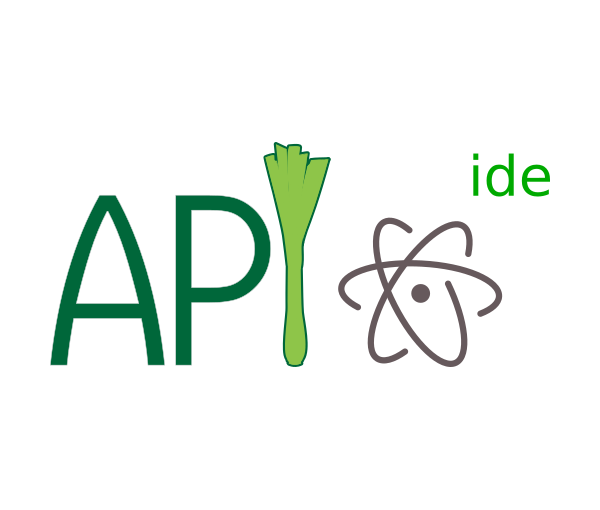
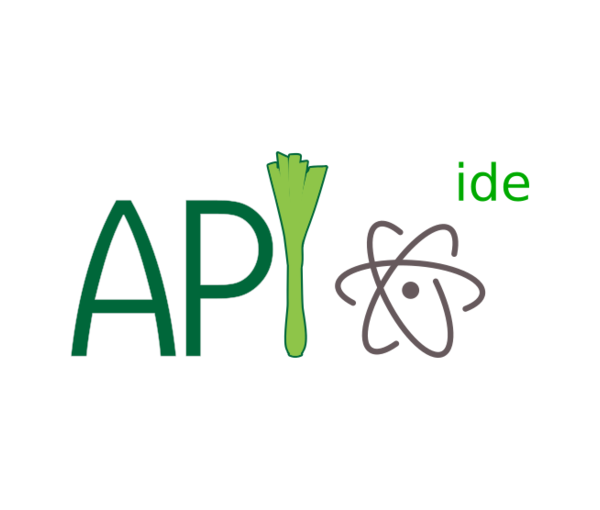
Add ImageMagick command to Readme

Changed region(s): [[0.06, 0.3529, 0.51, 0.7353], [0.54, 0.2941, 0.93, 0.7353], [0.42, 0.2647, 0.57, 0.3529]]

diff --git a/README.md b/README.md
@@ -15,6 +15,10 @@ If you need to update the plugins included with this template, simply run the fo
 * First run `npm update` to update the dependencies
 * Then run `gulp copy` to copy the new versions to their proper destinations
 
-Project and Tutorials images: 600x510 px
+Project and Tutorials images: 600x510px
 
-Workshops and Talks images: scale to 550, add canvas 600x510 px
+Workshops and Talks images: scale to 550, add canvas 600x510px with Gimp or with ImageMagick:
+
+```
+$ convert input.png -resize 550 -background white -gravity center -extent 600x510 output.png
+```
